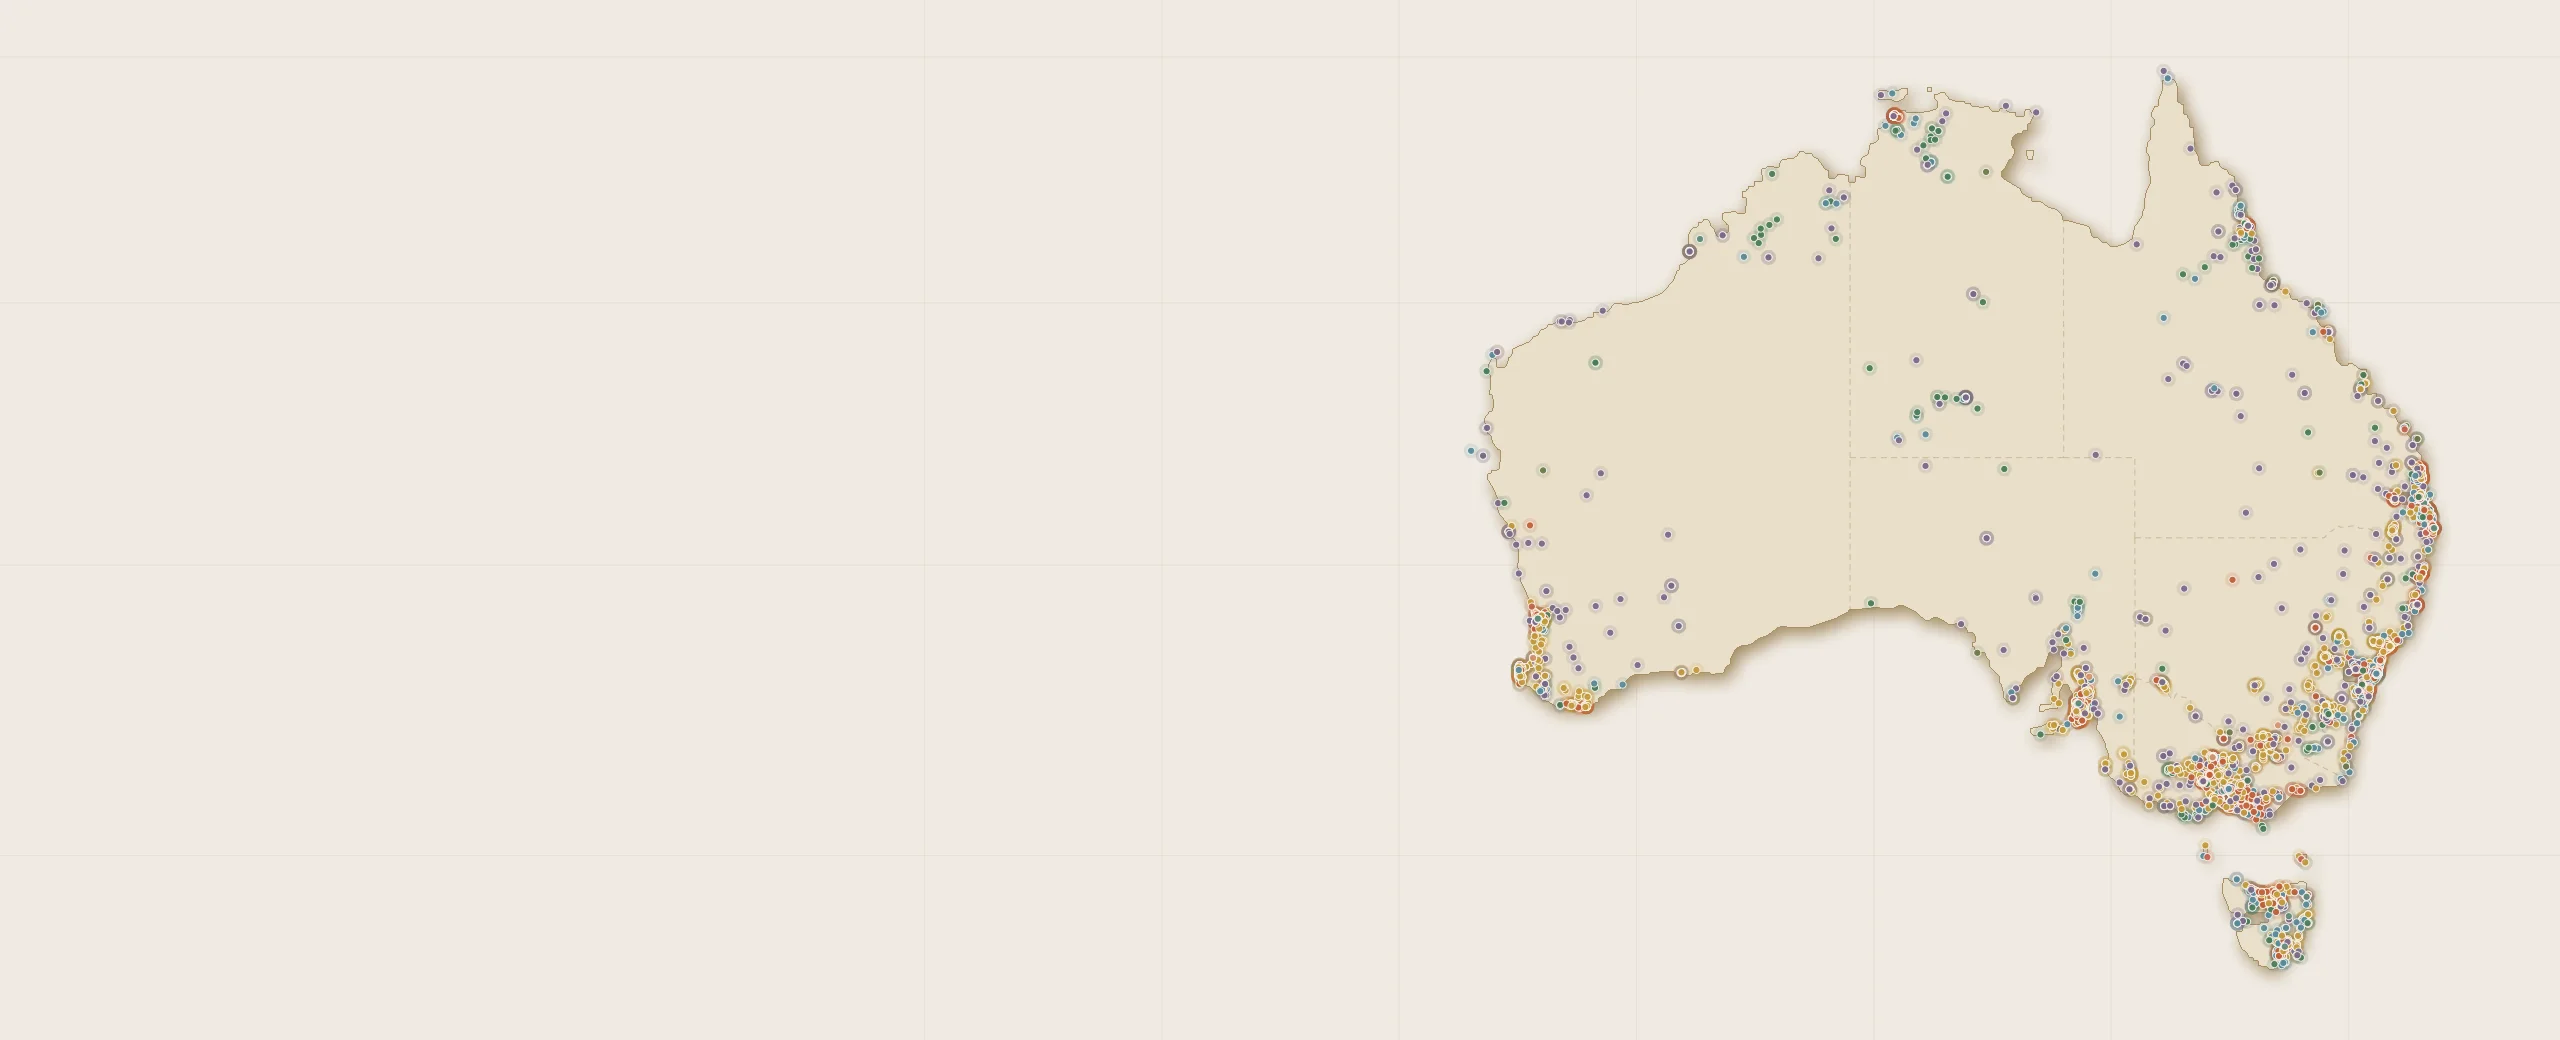
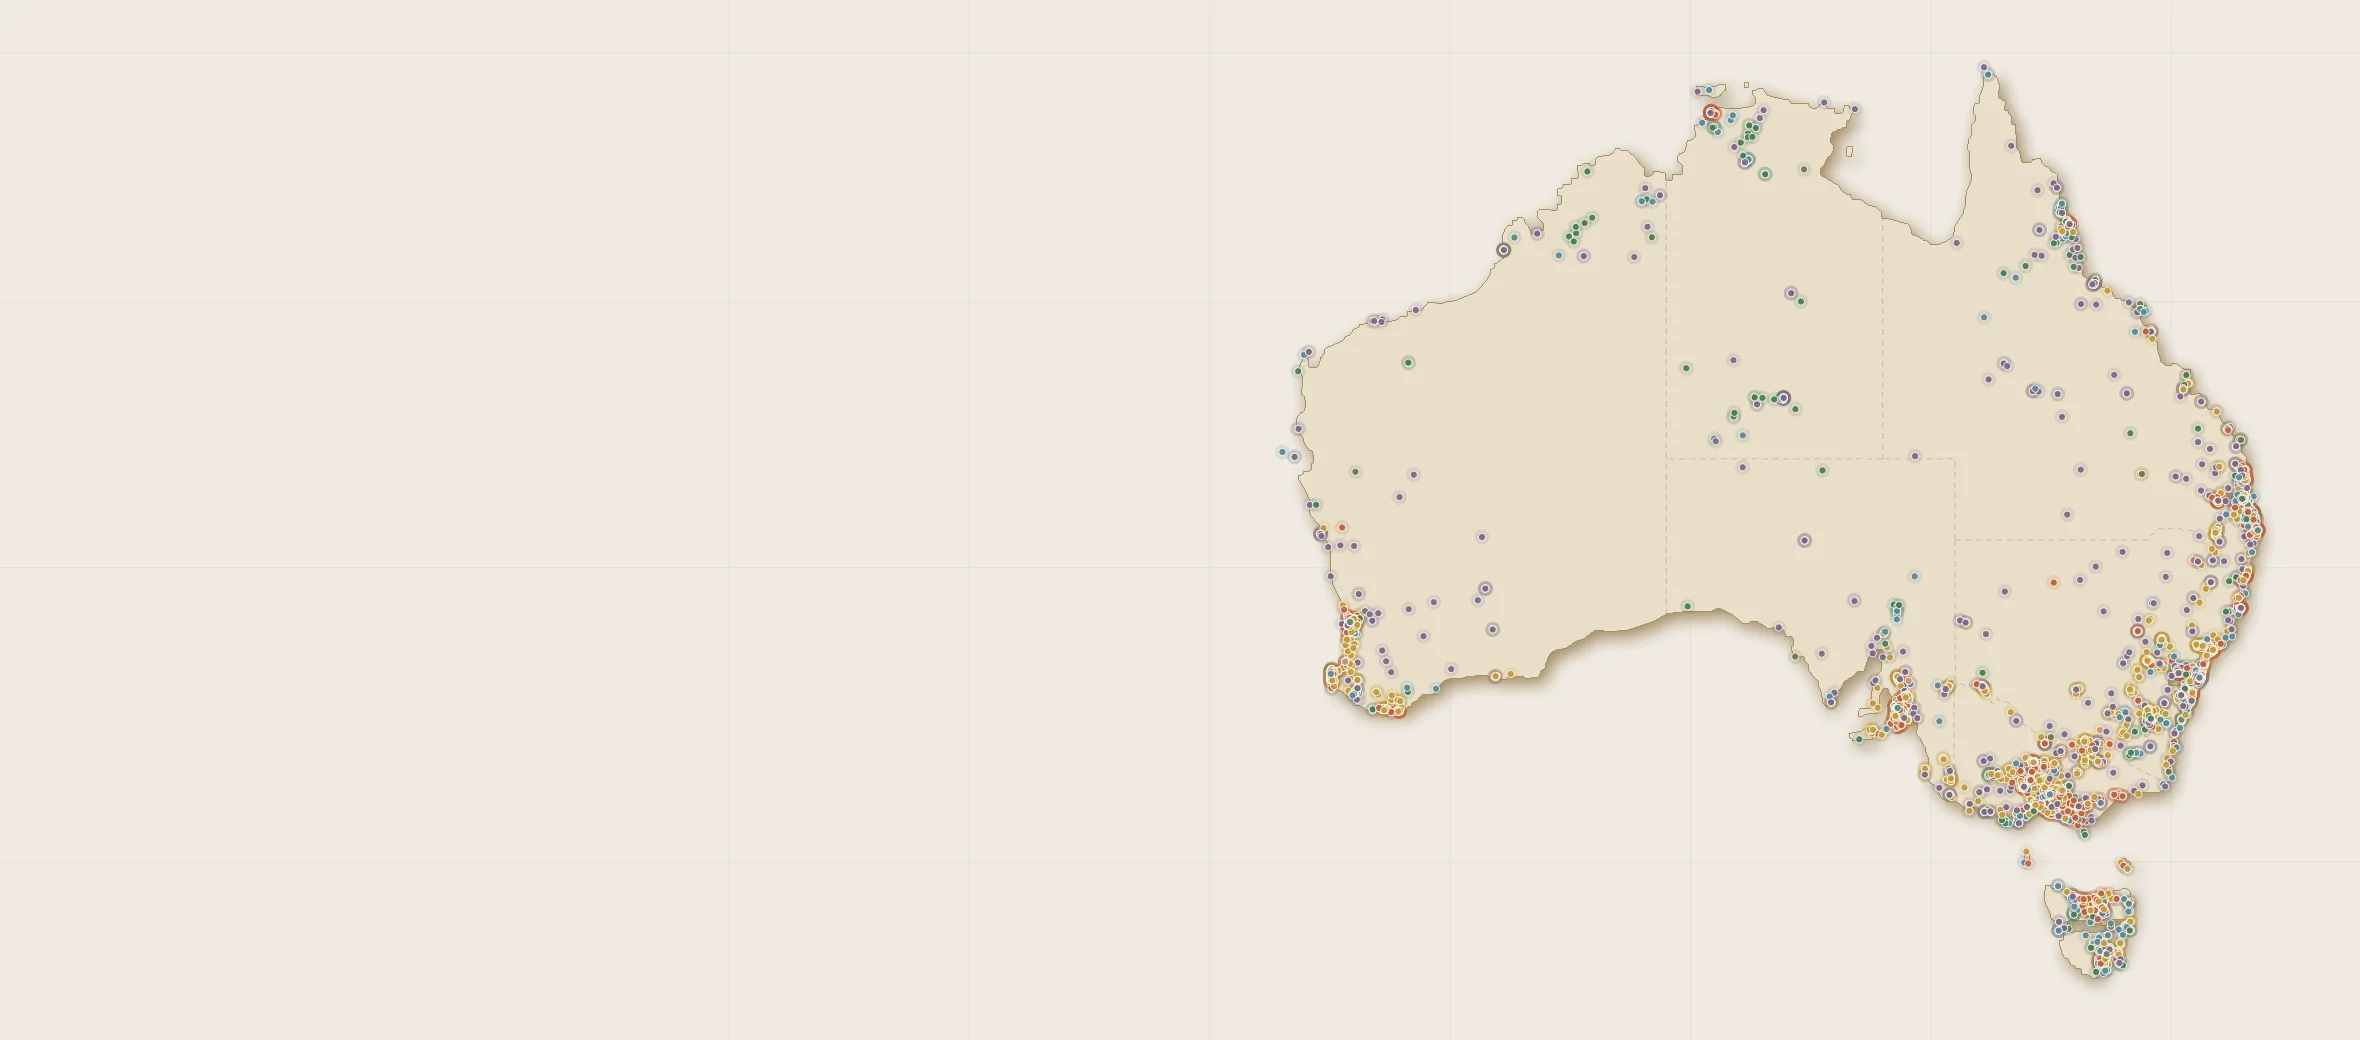
design(home): rebalance the atlas plate — centre the copy, tighten the ocean band
The bottom-left of the plate was a dead cream field at wide viewports
(Matt: 'the first instance of the page feels lopsided'): the copy column
was top-anchored and, since the legend went, too short to hold the band.

- copy column now vertically centred in the plate (short enough to centre
  everywhere; stacked mobile layout unaffected)
- chart recomposed 1280x520 → 1180x520: the continent takes ~42% of the
  frame width (was 38%), right margin 56 → 44, so the caption band no
  longer dominates the left half
- img dimensions + mobile crop aspect now derive from HOME_MAP constants
  instead of hard-coded numbers, so future recompositions can't drift

diff --git a/components/HomeAtlasMap.js b/components/HomeAtlasMap.js
@@ -1,6 +1,6 @@
 import LocalizedLink from '@/components/LocalizedLink'
 import { getTranslations } from 'next-intl/server'
-import { projectToImagePct } from '@/lib/map/homeAtlasProjection'
+import { HOME_MAP, projectToImagePct } from '@/lib/map/homeAtlasProjection'
 
 // The homepage "atlas plate" — the living atlas as the hero's ground.
 //
@@ -92,8 +92,8 @@ export default async function HomeAtlasMap({ listingCount, categoryCount, region
             <img
               src="/maps/home-map-atlas-plate.jpg"
               alt={t('mapSectionAlt')}
-              width={2560}
-              height={1040}
+              width={HOME_MAP.width * HOME_MAP.scale}
+              height={HOME_MAP.height * HOME_MAP.scale}
               loading="eager"
               fetchPriority="low"
               decoding="async"
@@ -176,12 +176,13 @@ export default async function HomeAtlasMap({ listingCount, categoryCount, region
         /* ── editorial copy over the open ocean ────────────── */
         .atlas-plate-copy {
           position: absolute;
-          left: clamp(24px, 6vw, 96px);
-          top: clamp(24px, 4.5vh, 44px);   /* top-anchored: the column must
-             never outgrow the image-derived plate height, so overflow room
-             stays at the bottom ocean rather than clipping the dateline */
+          left: clamp(24px, 7vw, 140px);
+          top: 50%;
+          transform: translateY(-50%);     /* centred in the band — since the
+             legend went, the column is short enough to centre everywhere,
+             and top-anchoring left a dead field under the text (Matt) */
           z-index: 4;
-          max-width: min(34vw, 460px);
+          max-width: min(34vw, 480px);
           display: flex; flex-direction: column; align-items: flex-start;
         }
         .atlas-plate-overline {
@@ -193,7 +194,7 @@ export default async function HomeAtlasMap({ listingCount, categoryCount, region
         .atlas-plate-headline {
           margin-top: 12px;
           font-family: var(--font-display); font-weight: 400;
-          font-size: clamp(24px, 2.8vw, 40px); line-height: 1.06;
+          font-size: clamp(24px, 3vw, 46px); line-height: 1.06;
           letter-spacing: -0.015em; color: var(--color-ink, #1C1A17);
           max-width: 10em; text-wrap: balance;
         }
@@ -311,7 +312,8 @@ export default async function HomeAtlasMap({ listingCount, categoryCount, region
           .atlas-plate-frame { height: min(97vw, 430px); min-height: 0; overflow: hidden; }
           .atlas-plate-canvas {
             position: absolute; top: 0; right: -3vw;
-            height: 100%; width: auto; aspect-ratio: 2560 / 1040;
+            height: 100%; width: auto;
+            aspect-ratio: ${HOME_MAP.width} / ${HOME_MAP.height};
           }
           .atlas-plate-canvas img { width: auto; height: 100%; }
           .atlas-city-name { font-size: 9.5px; letter-spacing: 0.1em; }

diff --git a/lib/map/homeAtlasProjection.js b/lib/map/homeAtlasProjection.js
@@ -2,8 +2,8 @@
 // Projection constants for public/maps/home-map-atlas.{webp,jpg}: overlay
 // components use these to place labels/pins on the image in percent terms.
 export const HOME_MAP = {
-  width: 1280, height: 520, scale: 2,
-  zoom: 3.060373, centerX: 0.79159865, centerY: 0.58214346,
+  width: 1180, height: 520, scale: 2,
+  zoom: 3.078909, centerX: 0.80212774, centerY: 0.58190634,
 }
 
 const worldSize = 512 * Math.pow(2, HOME_MAP.zoom)